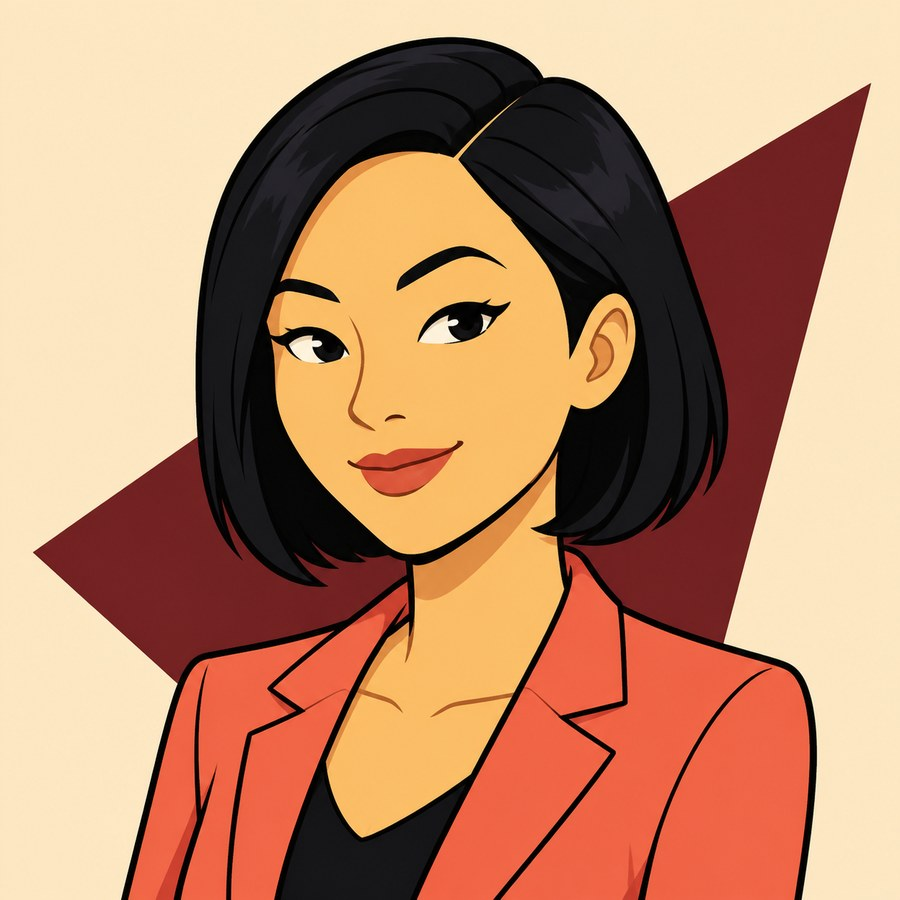
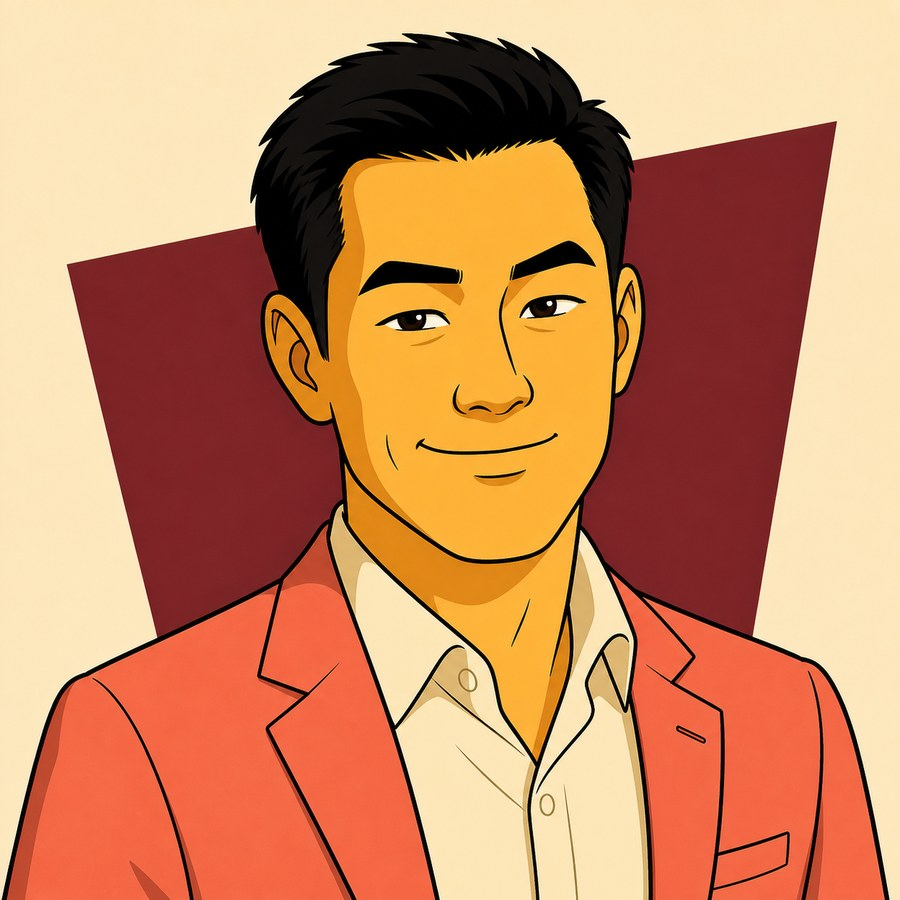
Show five team members per row and correct Qi Chen portrait

diff --git a/assets/css/mahayanacap.css b/assets/css/mahayanacap.css
@@ -245,6 +245,7 @@ footer .nav-link { color: #fff !important; }
   gap: 24px;
   margin: 0;
 }
+.team-grid { grid-template-columns: repeat(5, minmax(0, 1fr)); }
 .team-grid > .team-member,
 .insight-grid > .insight-card {
   width: 100%;
@@ -264,7 +265,7 @@ footer .nav-link { color: #fff !important; }
 .portrait-4 { background: linear-gradient(145deg,#6d4c24,#d4ad69); }
 .member-meta { position: relative; border-top: 1px solid var(--line); padding: 18px 36px 26px 0; }
 .member-meta span { font-size: 11px; color: #816d66; }
-.member-meta h2 { font: 600 27px var(--serif); margin: 12px 0 0; }
+.member-meta h2 { font: 600 clamp(20px, 1.6vw, 27px) var(--serif); margin: 12px 0 0; }
 .member-meta b { position: absolute; right: 4px; top: 18px; }
 .insights-page { background: var(--paper); }
 .insights-directory { padding-top: 92px; }
